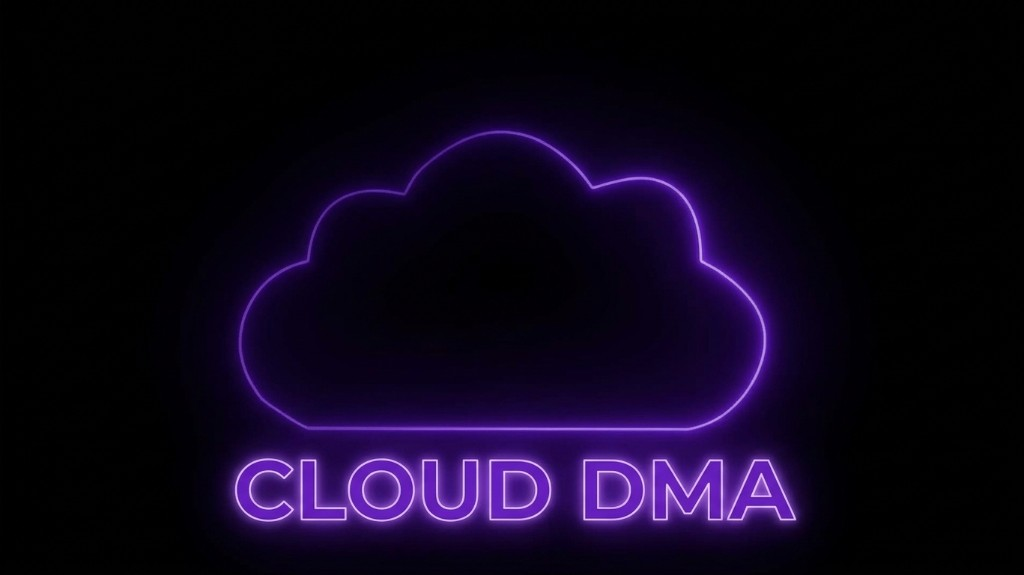
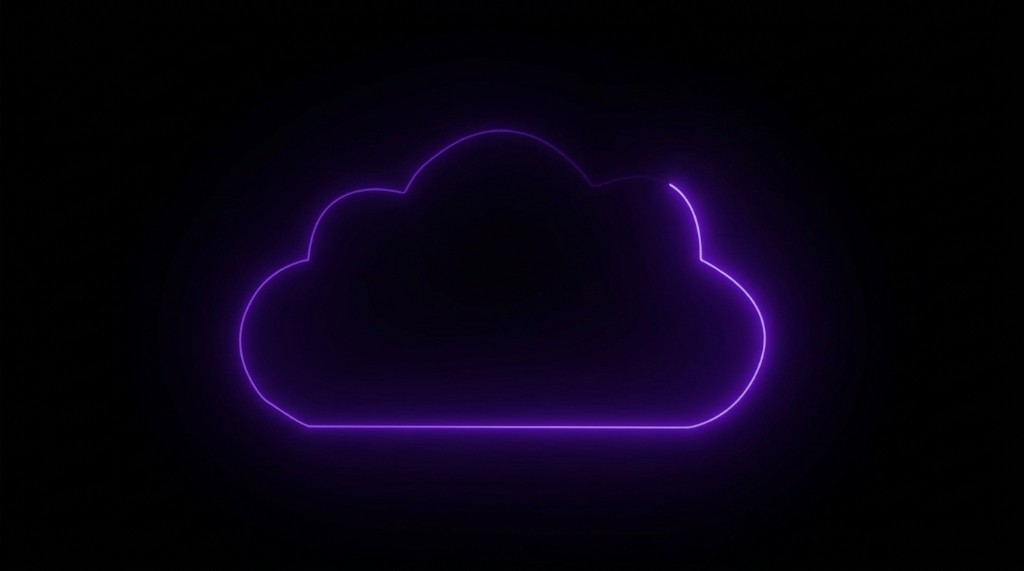
Serve the Cloud DMA photo as the original JPEG with no resize or WebP pass.

diff --git a/src/utils/responsiveImage.ts b/src/utils/responsiveImage.ts
@@ -1,9 +1,15 @@
 const RASTER_EXT = /\.(png|jpe?g|webp)$/i;
 const ORIGINAL_ASSET = /\/images\/(gameplay|extras)\//i;
+const UNCOMPRESSED_DISPLAY = /\/images\/extras\/cloud-dma\.jpe?g$/i;
 
 /** True for gameplay/extras sources. Original JPEGs stay on disk for OG; pages serve WebP variants. */
 export function isOriginalAsset(src: string): boolean {
   return ORIGINAL_ASSET.test(src);
+}
+
+/** Cloud DMA is shown from the original JPEG with no resize or WebP pass. */
+export function keepOriginalDisplay(src: string): boolean {
+  return UNCOMPRESSED_DISPLAY.test(src);
 }
 
 /** 400w covers ~330px card slots at 1x; 640w covers 2x retina. */
@@ -23,7 +29,7 @@ export function stripRasterExt(src: string): string {
 }
 
 export function webpSrc(src: string, width: number): string {
-  if (src.endsWith('.webp')) return src;
+  if (keepOriginalDisplay(src) || src.endsWith('.webp')) return src;
   return `${stripRasterExt(src)}-${width}.webp`;
 }
 
@@ -32,7 +38,8 @@ export function imageType(src: string): 'image/jpeg' | 'image/webp' {
   return 'image/webp';
 }
 
-export function displayImageType(_src?: string): 'image/webp' {
+export function displayImageType(src?: string): 'image/jpeg' | 'image/webp' {
+  if (src && keepOriginalDisplay(src)) return 'image/jpeg';
   return 'image/webp';
 }
 
@@ -46,6 +53,6 @@ export function defaultWebpSrc(src: string, widths: readonly number[]): string {
 }
 
 export function imageSrcSet(src: string, widths: readonly number[] = DEFAULT_IMAGE_WIDTHS): string | undefined {
-  if (!RASTER_EXT.test(src) || src.endsWith('.webp')) return undefined;
+  if (!RASTER_EXT.test(src) || src.endsWith('.webp') || keepOriginalDisplay(src)) return undefined;
   return responsiveSrcSet(src, widths);
 }
